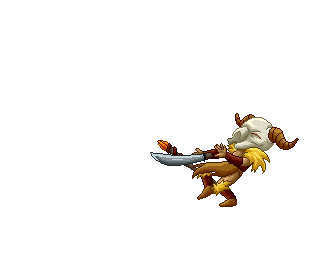
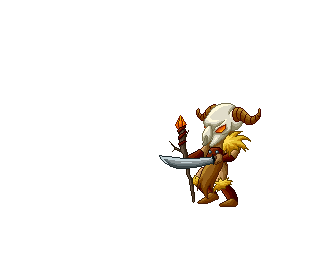
new function attack

Changed region(s): [[0.4615, 0.375, 0.9231, 0.8125]]

diff --git a/models/endboss.class.js b/models/endboss.class.js
@@ -2,29 +2,34 @@ class Endboss extends MovableObject {
   y = 185;
   width = 300;
   height = 300;
-  IMAGES_RUNNING = [
-    "img/endboss1/Anger1.png",
-    "img/endboss1/Anger2.png",
-    "img/endboss1/Anger3.png",
-    "img/endboss1/Anger4.png",
-    "img/endboss1/Anger5.png",
-    "img/endboss1/Magic_fire1.png",
-    "img/endboss1/Magic_fire2.png",
-    "img/endboss1/Magic_fire3.png",
-    "img/endboss1/Magic_fire4.png",
-    "img/endboss1/Magic_fire5.png",
-    "img/endboss1/Death0.png",
-    "img/endboss1/Death1.png",
-    "img/endboss1/Death01.png",
-    "img/endboss1/Death2.png",
-    "img/endboss1/Death3.png",
-    "img/endboss1/Death4.png",
-  ];
+
+  IMAGES_RUNNING = Array.from({ length: 5 }, (_, i) => `img/endboss1/Anger${i + 1}.png`);
+  IMAGES_MAGICFIRE = Array.from({ length: 5 }, (_, i) => `img/endboss1/Magic_fire${i + 1}.png`);
+  IMAGES_DEATH = Array.from({ length: 6 }, (_, i) => `img/endboss1/Death${i + 1}.png`);
+  // IMAGES_RUNNING = [
+  //   "img/endboss1/Anger1.png",
+  //   "img/endboss1/Anger2.png",
+  //   "img/endboss1/Anger3.png",
+  //   "img/endboss1/Anger4.png",
+  //   "img/endboss1/Anger5.png",
+  //   "img/endboss1/Magic_fire1.png",
+  //   "img/endboss1/Magic_fire2.png",
+  //   "img/endboss1/Magic_fire3.png",
+  //   "img/endboss1/Magic_fire4.png",
+  //   "img/endboss1/Magic_fire5.png",
+  //   "img/endboss1/Death0.png",
+  //   "img/endboss1/Death1.png",
+  //   "img/endboss1/Death01.png",
+  //   "img/endboss1/Death2.png",
+  //   "img/endboss1/Death3.png",
+  //   "img/endboss1/Death4.png",
+  // ];
 
   constructor() {
     super().loadImage(this.IMAGES_RUNNING[0]);
     this.loadImages(this.IMAGES_RUNNING);
-
+    this.loadImages(this.IMAGES_MAGICFIRE);
+    this.loadImages(this.IMAGES_DEATH);
     this.x = 700;
     this.animate();
   }

diff --git a/models/chracter.class.js b/models/chracter.class.js
@@ -3,31 +3,39 @@ class Character extends MovableObject {
   y = 160;
   speed = 10;
 
-  IMAGES_RUNNING = [
-    "img/hero/run1.png",
-    "img/hero/run2.png",
-    "img/hero/run3.png",
-    "img/hero/run4.png",
-    "img/hero/run5.png",
-    "img/hero/run6.png",
-    "img/hero/run7.png",
-    "img/hero/run8.png",
-  ];
+  IMAGES_RUNNING = Array.from({ length: 8 }, (_, i) => `img/hero/run${i + 1}.png`);
+  // IMAGES_RUNNING = [
+  //   "img/hero/run1.png",
+  //   "img/hero/run2.png",
+  //   "img/hero/run3.png",
+  //   "img/hero/run4.png",
+  //   "img/hero/run5.png",
+  //   "img/hero/run6.png",
+  //   "img/hero/run7.png",
+  //   "img/hero/run8.png",
+  // ];
 
-  IMAGES_JUMPING = [
-    "img/hero/high_jump1.png",
-    "img/hero/high_jump2.png",
-    "img/hero/high_jump3.png",
-    "img/hero/high_jump4.png",
-    "img/hero/high_jump5.png",
-    "img/hero/high_jump6.png",
-    "img/hero/high_jump7.png",
-    "img/hero/high_jump8.png",
-    "img/hero/high_jump9.png",
-    "img/hero/high_jump10.png",
-    "img/hero/high_jump11.png",
-    "img/hero/high_jump12.png",
-  ];
+  
+  // for (let i = 0; i < 8; i++) {
+  //   this.IMAGES_RUNNING[i] = this.IMAGES_RUNNING[i];
+  // } 
+
+
+  IMAGES_JUMPING = Array.from({ length: 12 }, (_, i) => `img/hero/high_jump${i + 1}.png`);
+  // IMAGES_JUMPING = [
+  //   "img/hero/high_jump1.png",
+  //   "img/hero/high_jump2.png",
+  //   "img/hero/high_jump3.png",
+  //   "img/hero/high_jump4.png",
+  //   "img/hero/high_jump5.png",
+  //   "img/hero/high_jump6.png",
+  //   "img/hero/high_jump7.png",
+  //   "img/hero/high_jump8.png",
+  //   "img/hero/high_jump9.png",
+  //   "img/hero/high_jump10.png",
+  //   "img/hero/high_jump11.png",
+  //   "img/hero/high_jump12.png",
+  // ];
 
   world;
 
